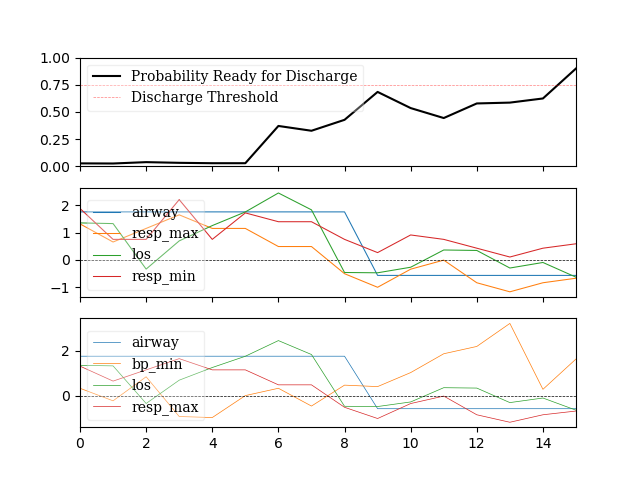
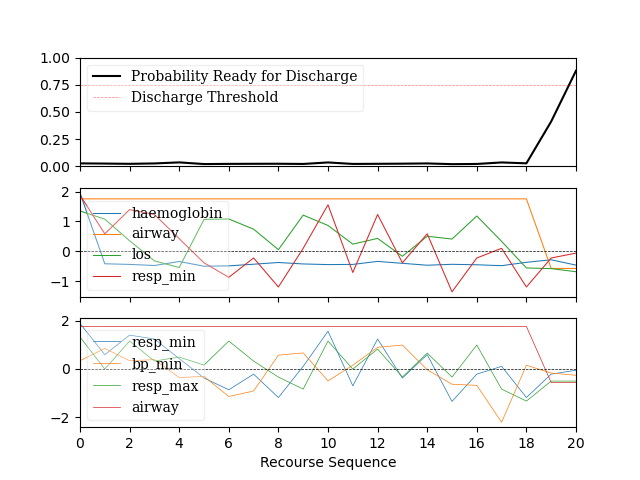
Fix plots, more neighbours, inverse labels

diff --git a/local_face/local_face.py b/local_face/local_face.py
@@ -36,7 +36,7 @@ class LocalFace:
         self.G = None
         self.prob = None
 
-    def find_cf(self, x0, k=10, thresh=0.9, mom=3, alpha=0.05):
+    def find_cf(self, x0, k=10, thresh=0.9, mom=3, alpha=0.05, target=1):
         """
         Find a valid counterfactual by searching through nearby data points using momentum
         Args:
@@ -45,6 +45,7 @@ class LocalFace:
             thresh: minimum value of probability classifier to terminate algorithm
             mom: positive int of number of last steps used to build momentum
             alpha: positive float of maximum step size when using momentum
+            target: 0 or 1, the target class
         Returns:
             steps: n by p array of p steps to get from x0 to a valid counterfactual
             cf: valid counterfactual (last entry in steps)
@@ -63,7 +64,7 @@ class LocalFace:
         # print(tree.data[close])
 
         # find probabilities of closest points
-        vals = self.model.predict_proba(tree.data[close])[:, 1]
+        vals = self.model.predict_proba(tree.data[close])[:, target]
 
         # save best move and delete from tree and rebuild
         indx = np.argmax(vals)
@@ -75,7 +76,7 @@ class LocalFace:
 
         # repeat until valid counterfactual is found
         i = 1
-        while self.model.predict_proba([x_hat])[0, 1] < thresh:
+        while self.model.predict_proba([x_hat])[0, target] < thresh:
             # find closes k points to x0
             nei = tree.query(steps[i], k=k, p=2)
             close = nei[1]
@@ -83,7 +84,7 @@ class LocalFace:
             # find weighted probabilities of closest points
             try:
                 vals = (1 / (1 + nei[0])) * \
-                    self.model.predict_proba(tree.data[close])[:, 1]
+                    self.model.predict_proba(tree.data[close])[:, target]
             except:
                 raise ValueError('Failed to find a counterfactual')
 
@@ -119,7 +120,7 @@ class LocalFace:
             i += 1
         return steps, cf
 
-    def generate_graph(self, x0, cf, k, thresh, tol, sample, method='strict', early=True):
+    def generate_graph(self, x0, cf, k, thresh, tol, sample, method='strict', early=False, target=1):
         """
         Find best path through data from x0 to counterfactual via query balls of radius dist
         Args:
@@ -129,6 +130,7 @@ class LocalFace:
             thresh: float of threshold of value for function in order to classify a
             point as a viable counterfactual
             early: bool for whether to terminate early if a closer counterfactual is found
+            target: 0 or 1 the target class
 
         Returns: n by p array of p steps to get from x0 to a valid counterfactual and a graph of the steps
         """
@@ -143,7 +145,7 @@ class LocalFace:
         i = 1
         while not np.array_equiv(xt, cf):
             # check if current point actually meets criteria
-            if self.model.predict_proba([xt])[0, 1] >= thresh and early:
+            if self.model.predict_proba([xt])[0, target] >= thresh and early:
                 print('Better solution located en route')
                 break
             # get vector of the best direction of travel
@@ -285,7 +287,7 @@ class LocalFace:
         """
         success = False
         prob = self.prob
-        threshold_reduction = 0.001
+        threshold_reduction = 1*10**(-13)
         while not success:
             try:
                 self.path = nx.shortest_path(

diff --git a/case_study_example.py b/case_study_example.py
@@ -21,16 +21,19 @@ scale = True  # stanardised input data
 bandwidth_search = False  # search for optimal bandwidth
 
 # parameters for locating counterfactual and path
-k = 10
+k = 50
 thresh = 0.75
-dist = 1
-seed = 13
+dist = 0.5
+seed = 12
 method_type = 'strict'
-prob_dense = 0.001
+prob_dense = 1*10**(-12)
+target = 1
 
 # optionally, choose the type of factual:
 # 'FN', 'FP', 'TN', 'TP' or 'all_neg' for TN+FP
-factual_type = 'all_neg'
+factual_type = 'TN'
+if factual_type == 'FP' or factual_type == 'TP':
+    target = 0
 
 # Extract top n
 top_n_features = 4
@@ -64,9 +67,7 @@ if bandwidth_search:
     print(grid.best_params_)
     band_width = grid.best_params_['bandwidth']
 else:
-    band_width = 0.001
-
-band_width = 0.001
+    band_width = 0.0000001
 
 all_columns = X_train.columns
 
@@ -145,7 +146,7 @@ face = LocalFace(X_train, model, dense)  # constrained
 # find a counterfactual
 print(r"Finding counterfactual x' (explore)...")
 start_explore = time.time()
-steps, cf = face.find_cf(factual, k=k, thresh=thresh, mom=0)
+steps, cf = face.find_cf(factual, k=k, thresh=thresh, mom=0, target=target)
 print('Explore time taken: {} seconds'.format(
     np.round(time.time() - start_explore, 2)))
 overall_recourse = pd.DataFrame([factual - cf], columns=features)
@@ -155,7 +156,7 @@ print('---------------------------------')
 print(r'Creating graph G (Exploit)...')
 start_exploit = time.time()
 best_steps, G = face.generate_graph(
-    factual, cf, k, thresh, prob_dense, 10, early=True, method=method_type)
+    factual, cf, k, thresh, prob_dense, 10, early=True, method=method_type, target=target)
 # create edges between viable points and calculate the weights
 """prob = face.dense.score([factual])
 G = face.create_edges(1, 10, method='strict')"""
@@ -210,6 +211,8 @@ if graph:
     ax[0].plot(rfd_probs, '-k',
                label=('Probability Ready for Discharge')
                )
+    if factual_type == 'FP' or factual_type == 'TP':
+        thresh = 1 - thresh
     ax[0].axhline(thresh, color='red', linestyle='--',
                   linewidth='0.5', alpha=0.5, label='Discharge Threshold')
     ax[0].legend(fancybox=True, framealpha=0.3, loc='upper left')
@@ -220,7 +223,7 @@ if graph:
         print(i)
         ax[1].plot(ind_inst, abs_combined.iloc[:, i],
                    label=str(list(abs_combined.columns.values)[i]), linewidth=0.75)
-    ax[1].legend(loc='lower left', framealpha=0.3, fancybox=True)
+    ax[1].legend(framealpha=0.3, fancybox=True, ncol=top_n_features)
     ax[1].xaxis.set_major_locator(MaxNLocator(integer=True))
     ax[1].set_xlim([0, num_inst-1])
     ax[1].axhline(0, color='black', linestyle='--', linewidth='0.5')
@@ -228,7 +231,7 @@ if graph:
         print(i)
         ax[2].plot(ind_inst, volatile_combined.iloc[:, i],
                    label=str(list(volatile_combined.columns.values)[i]), linewidth=0.5)
-    ax[2].legend(loc='lower left', framealpha=0.3, fancybox=True)
+    ax[2].legend(framealpha=0.3, fancybox=True, ncol=top_n_features)
     ax[2].xaxis.set_major_locator(MaxNLocator(integer=True))
     ax[2].set_xlim([0, num_inst-1])
     ax[2].axhline(0, color='black', linestyle='--', linewidth='0.5')
